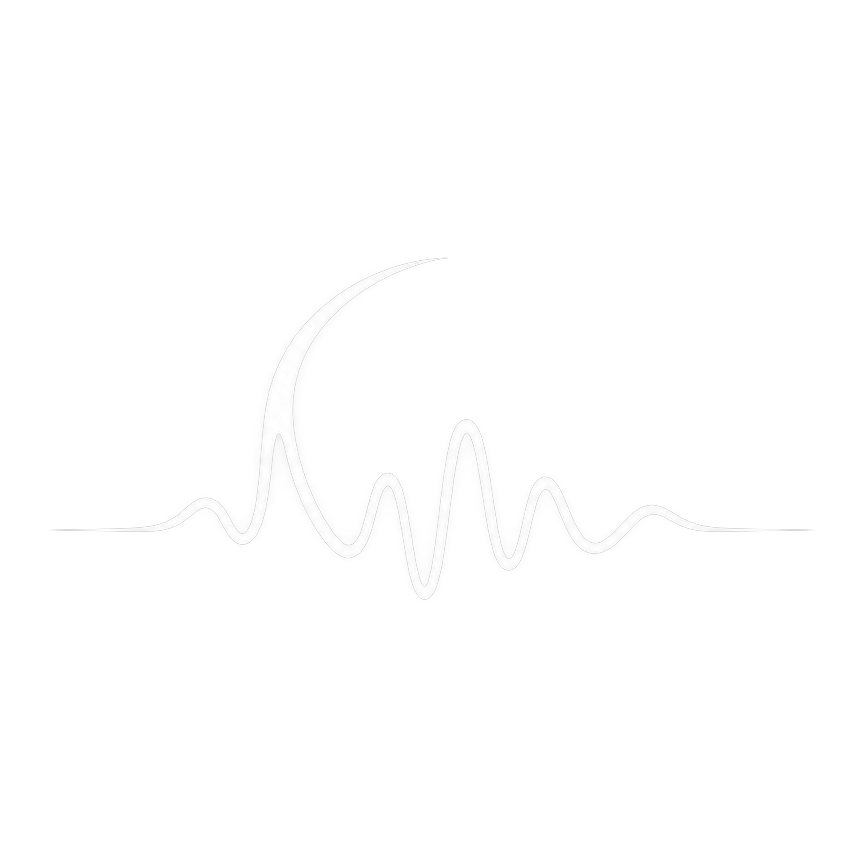
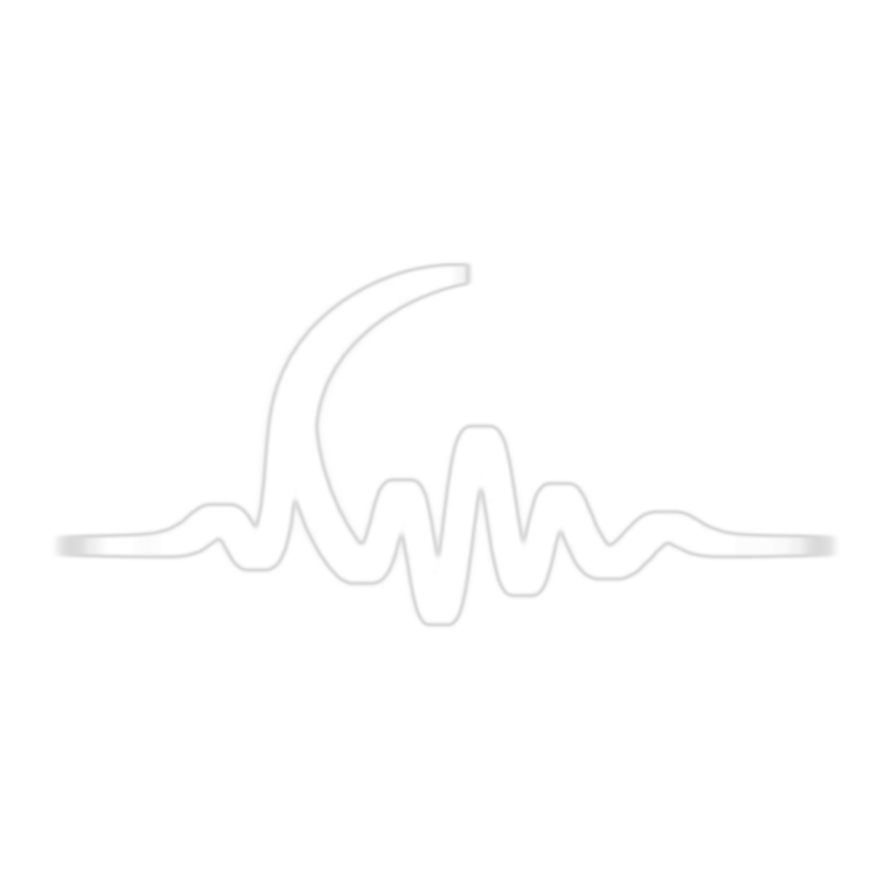
Browse: Spotify search layout (top result + songs row, artists row), bolder white mark, black bg

diff --git a/src/styles.css b/src/styles.css
@@ -2706,7 +2706,7 @@ select { color-scheme: dark; }
 .brw {
   position: fixed; inset: 0; z-index: 1;
   display: grid; grid-template-columns: 216px 1fr; grid-template-rows: 1fr auto;
-  background: rgba(10, 11, 15, 0.97);
+  background: #000;
   font-family: var(--ui); color: var(--text);
 }
 .brw__rail {
@@ -2731,7 +2731,7 @@ select { color-scheme: dark; }
 .brw__railsearch svg { width: 15px; height: 15px; flex: none; }
 .brw__railsearch input {
   flex: 1; min-width: 0; border: none; background: none; outline: none;
-  color: var(--text); font: inherit; font-size: var(--fs-sm);
+  color: var(--text); font: inherit; font-size: var(--fs-md);
 }
 .brw__railsearch input::placeholder { color: var(--muted); }
 .brw__railsearch:focus-within { border-color: var(--hair-strong); color: var(--text); }
@@ -2739,7 +2739,7 @@ select { color-scheme: dark; }
 .brw__nav {
   display: flex; align-items: center; gap: 10px;
   padding: 8px 10px; border: none; border-radius: var(--r-md);
-  background: none; color: var(--dim); font: inherit; font-size: var(--fs-sm);
+  background: none; color: var(--dim); font: inherit; font-size: var(--fs-md);
   font-weight: 550; cursor: pointer; text-align: left; white-space: nowrap;
   overflow: hidden; text-overflow: ellipsis;
 }
@@ -2791,7 +2791,7 @@ select { color-scheme: dark; }
 .brw__art svg { width: 30%; height: 30%; }
 .brw__art--round { border-radius: 50%; }
 .brw__cardt {
-  font-size: var(--fs-sm); font-weight: 550; white-space: nowrap;
+  font-size: var(--fs-md); font-weight: 550; white-space: nowrap;
   overflow: hidden; text-overflow: ellipsis;
 }
 .brw__cards {
@@ -2823,32 +2823,50 @@ select { color-scheme: dark; }
 .brw__empty { font-size: var(--fs-sm); color: var(--muted); padding: 8px 4px; }
 .brw__search { width: 100%; max-width: none; }
 .brw__search .fs__provq { width: 100%; max-width: 640px; }
-/* Two-column results on wide layouts: songs left, artists + playlists right. */
+/* Spotify-style results: "Top result" card left, "Songs" right on the same
+   row, then Artists and Playlists as full-width rows underneath. Grid rows
+   are explicit so the column pairing holds regardless of DOM order. */
 .brw__search .srch__body {
-  display: grid; grid-template-columns: minmax(0, 1fr) 300px;
-  column-gap: 28px; align-items: start;
+  display: grid; grid-template-columns: minmax(0, 360px) minmax(0, 1fr);
+  column-gap: 28px;
 }
-.brw__search .srch__body > * { grid-column: 1; min-width: 0; }
-.brw__search .srch__body > .srch__h:has(+ .srch__artists),
-.brw__search .srch__body > .srch__artists,
-.brw__search .srch__body > .srch__aside { grid-column: 2; }
-.brw__search .srch__artists { flex-wrap: wrap; overflow: visible; }
+.brw__search .srch__body > * { min-width: 0; }
+.brw__search .srch__body > .srch__h:has(+ .srch__top) { grid-column: 1; grid-row: 1; }
+.brw__search .srch__body > .srch__top { grid-column: 1; grid-row: 2; }
+.brw__search .srch__body > .srch__h:has(+ .srch__songs) { grid-column: 2; grid-row: 1; }
+.brw__search .srch__body > .srch__songs { grid-column: 2; grid-row: 2; }
+.brw__search .srch__body > .srch__h:has(+ .srch__artists) { grid-column: 1 / -1; grid-row: 3; }
+.brw__search .srch__body > .srch__artists { grid-column: 1 / -1; grid-row: 4; flex-wrap: wrap; overflow: visible; }
+.brw__search .srch__body > .srch__aside { grid-column: 1 / -1; grid-row: 5; }
+/* Artist drill-down: the songs list takes the whole width. */
+.brw__search .srch__body > .srch__h:has(.srch__back) { grid-column: 1 / -1; grid-row: 1; }
+.brw__search .srch__body > .srch__h:has(.srch__back) + .srch__songs { grid-column: 1 / -1; grid-row: 2; }
+.brw__search .srch__body > .srch__h:has(.srch__back) ~ .srch__aside { grid-row: 3; }
+/* Top result gets the big Spotify card treatment. */
+.brw__search .srch__top {
+  flex-direction: column; align-items: flex-start; gap: 12px;
+  padding: 18px; height: 100%; min-height: 210px; box-sizing: border-box;
+}
+.brw__search .srch__top .srch__topart { width: 92px; height: 92px; }
+.brw__search .srch__top .srch__toptitle { font-size: var(--fs-xl); white-space: normal; }
+.brw__search .srch__artist img { width: 88px; height: 88px; }
+.brw__search .srch__artist { flex-basis: 96px; }
 .srch__aside { display: flex; flex-direction: column; min-width: 0; }
-.srch__pllist { display: flex; flex-direction: column; }
+.srch__pllist { display: flex; flex-wrap: wrap; gap: 10px; }
 .srch__pl {
-  display: flex; align-items: center; gap: 10px; padding: 7px 6px;
-  border: 0; border-radius: 8px; background: none; color: #fff;
+  display: flex; align-items: center; gap: 10px; padding: 8px 14px 8px 8px;
+  border: 1px solid rgba(255, 255, 255, 0.12); border-radius: 10px;
+  background: rgba(255, 255, 255, 0.07); color: #fff;
   font: inherit; font-size: 12.5px; font-weight: 600; cursor: pointer;
-  text-align: left; min-width: 0;
+  text-align: left; min-width: 0; max-width: 260px;
 }
-.srch__pl:hover, .srch__pl:focus-visible { background: rgba(255, 255, 255, 0.10); outline: none; }
+.srch__pl:hover, .srch__pl:focus-visible { background: rgba(255, 255, 255, 0.13); outline: none; }
 .srch__pl svg { width: 15px; height: 15px; flex: none; color: rgba(255, 255, 255, 0.66); }
 .srch__pl span { overflow: hidden; text-overflow: ellipsis; white-space: nowrap; }
 @media (max-width: 900px) {
   .brw__search .srch__body { grid-template-columns: minmax(0, 1fr); }
-  .brw__search .srch__body > .srch__h:has(+ .srch__artists),
-  .brw__search .srch__body > .srch__artists,
-  .brw__search .srch__body > .srch__aside { grid-column: 1; }
+  .brw__search .srch__body > * { grid-column: 1 !important; grid-row: auto !important; }
+  .brw__search .srch__top { min-height: 0; }
 }
 .brw__plhead { display: flex; align-items: center; gap: 14px; margin-bottom: 16px; }
 .brw__plhead .brw__art { width: 56px; flex: none; }

diff --git a/src/SearchPanel.tsx b/src/SearchPanel.tsx
@@ -26,6 +26,7 @@ export default function SearchPanel({
   query,
   onQuery,
   aside,
+  songLimit,
 }: {
   src: string;
   label: (id: string) => string;
@@ -36,6 +37,8 @@ export default function SearchPanel({
   onQuery?: (q: string) => void;
   /** Extra content for the right column on wide layouts (e.g. playlists). */
   aside?: ReactNode;
+  /** Cap the songs block (Spotify's short "Songs" list); artist pages show all. */
+  songLimit?: number;
 }) {
   const t = useT();
   const [qLocal, setQLocal] = useState("");
@@ -96,6 +99,7 @@ export default function SearchPanel({
     ? songs.filter((s) => s.artist.toLowerCase().includes(artist.toLowerCase()))
     : songs;
   const top = shown[0];
+  const listed = !artist && songLimit ? shown.slice(0, songLimit) : shown;
 
   const target =
     src === "auto"
@@ -201,7 +205,7 @@ export default function SearchPanel({
             )}
           </span>
           <div className="srch__songs">
-            {shown.map((s, i) => (
+            {listed.map((s, i) => (
               <div
                 key={`${s.title}:${s.artist}:${i}`}
                 className="srch__row"

diff --git a/src/pages/Browse.tsx b/src/pages/Browse.tsx
@@ -344,6 +344,7 @@ export default function Browse() {
               onPlayed={refresh}
               query={q}
               onQuery={setQ}
+              songLimit={6}
               aside={
                 playlists.length > 0 ? (
                   <>
